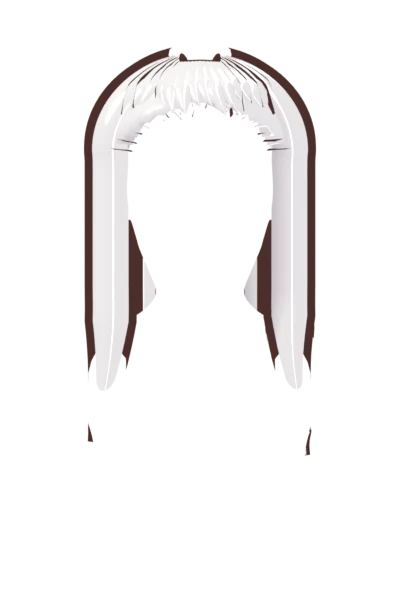
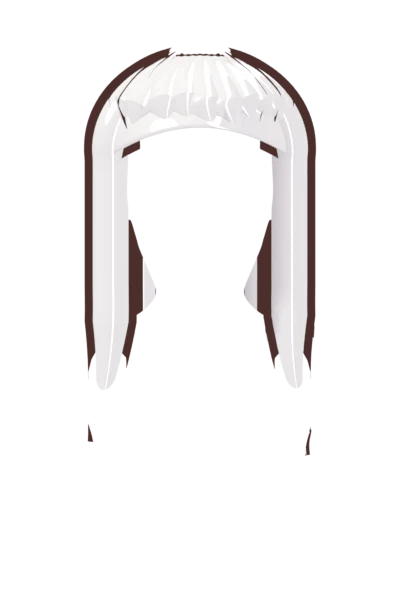
Customers: smooth hairlines and bob, higher hats, plain mouth area, thinner collars, simpler scarf (#18)
Hair caps, bob, beanie and cap are now one smooth sheet over the skull instead of cut-out spheres (no staircase edges).

Changed region(s): [[0.27, 0.09, 0.72, 0.27]]

diff --git a/sw.js b/sw.js
@@ -2,11 +2,11 @@
    too. The page itself is fetched from the network first (so a new version shows up at once) and from the cache when
    offline; everything else comes from the cache and is fetched only the first time. Bump VERSION with every release
    (together with the ?v= on the links in index.html): the old cache is then dropped. */
-const VERSION = 'cafe-cb-53';
+const VERSION = 'cafe-cb-54';
 const CORE = [
   './', 'index.html', 'manifest.webmanifest', 'style.css?v=41',
   'css/scene.css?v=41', 'css/fx.css?v=41', 'css/views.css?v=41', 'css/bar.css?v=52', 'css/theme.css?v=41', 'css/helper.css?v=41', 'css/stage.css?v=53', 'css/intro.css?v=41',
-  'js/intro.js?v=41', 'js/util.js?v=41', 'js/economy.js?v=41', 'js/i18n.js?v=42', 'js/audio.js?v=41', 'js/recipe.js?v=43', 'js/render.js?v=42', 'js/scene.js?v=41', 'js/fx.js?v=41',
+  'js/intro.js?v=41', 'js/util.js?v=41', 'js/economy.js?v=41', 'js/i18n.js?v=42', 'js/audio.js?v=41', 'js/recipe.js?v=43', 'js/render.js?v=43', 'js/scene.js?v=41', 'js/fx.js?v=41',
   'js/station.js?v=42', 'js/camera.js?v=42', 'js/helper.js?v=41', 'js/tutorial.js?v=41', 'js/main.js?v=41',
   'assets/favicon-64.png', 'assets/icon-192.png', 'assets/icon-512.png', 'assets/icon-512-any.png', 'assets/apple-touch-icon.png',
   'assets/cover/logo-menu.webp', 'assets/intro/cup.webp', 'assets/intro/text.webp',
@@ -20,7 +20,7 @@ const CORE = [
     'top-cinnamon', 'top-cocoa', 'top-whip', 'wand', 'warmer', 'icebucket', 'cocoatin', 'tipjar', 'stool'].map(n => `assets/models/${n}.webp`),
   // customers: two bodies (f, m), each with its own skin, shirt, collars, scarf, hair and hats (the beard is for m only)
   ...['f', 'm'].flatMap(g => ['skin', 'torso', 'collar-round', 'collar-v', 'scarf', 'hat-beanie', 'hat-pom', 'hat-cap', ...(g === 'm' ? ['beard'] : []),
-    ...['short', 'bun', 'long', 'curly', 'straight'].map(h => `hair-${h}-front`), ...['long', 'curly', 'straight'].map(h => `hair-${h}-back`)]
+    ...['short', 'bun', 'long', 'curly', 'straight'].map(h => `hair-${h}-front`), ...['long', 'curly'].map(h => `hair-${h}-back`)]
     .map(n => `assets/models/cust-${n}-${g}.webp`)),
 ];
 

diff --git a/js/render.js b/js/render.js
@@ -21,7 +21,7 @@ const HAIR_STYLES = ['short', 'bun', 'long', 'curly', 'beanie', 'straight'];   /
 const CUST_IMG = {};
 for (const g of ['f', 'm']) {
   ['skin', 'torso', 'collar-round', 'collar-v', 'scarf', 'hat-beanie', 'hat-pom', 'hat-cap', ...(g === 'm' ? ['beard'] : []),
-    ...['short', 'bun', 'long', 'curly', 'straight'].map(h => `hair-${h}-front`), ...['long', 'curly', 'straight'].map(h => `hair-${h}-back`)]
+    ...['short', 'bun', 'long', 'curly', 'straight'].map(h => `hair-${h}-front`), ...['long', 'curly'].map(h => `hair-${h}-back`)]
     .forEach(n => { const i = new Image(); i.src = `assets/models/cust-${n}-${g}.webp`; CUST_IMG[`${n}-${g}`] = i; });
 }
 function tintLayer(img, col, W, H) {

diff --git a/index.html b/index.html
@@ -382,7 +382,7 @@
 <script src="js/i18n.js?v=42"></script>
 <script src="js/audio.js?v=41"></script>
 <script src="js/recipe.js?v=43"></script>
-<script src="js/render.js?v=42"></script>
+<script src="js/render.js?v=43"></script>
 <script src="js/scene.js?v=41"></script>
 <script src="js/fx.js?v=41"></script>
 <script src="js/station.js?v=42"></script>

diff --git a/tools/blender/customers_b.py b/tools/blender/customers_b.py
@@ -224,35 +224,81 @@ def strand(phi0, e0, e1, sweep, r, m, g=1.0, fall=None, taper=0.3, outline=0.08,
     return tube('lock', smooth_curve(pts, 4), r, m, outline=outline, taper=taper)
 
 
-def hair_cap(m, front_eps=60, side_eps=96, back_eps=128, g=0.8):
+def hairline_eps(phi, front_eps, side_eps=96, back_eps=128):
+    c = math.cos(math.radians(phi))                                  # +1 front .. -1 back
+    return front_eps + (side_eps - front_eps) * (1 - c * c) if c > 0 else side_eps + (back_eps - side_eps) * c * c
+
+
+def smooth01(a, b, x):
+    t = max(0.0, min(1.0, (x - a) / (b - a)))
+    return t * t * (3 - 2 * t)
+
+
+def sheet(name, m, end_fn, g=0.8, flare=0.0, thick=0.4, N=96, R=16):
+    """a sheet of hair/cloth over the skull: from the crown down to end_fn(phi) (a height) all the way round; below the
+    ear line it falls straight down, flaring out by `flare` per unit. Built as a grid, so its lower edge is a smooth curve"""
+    k = skull()
+    ztop = k['cz'] + k['hz'] + g
+    zb = k['cz'] + (k['hz'] + g) * math.cos(math.radians(100))
+    bm = bmesh.new()
+    pole = bm.verts.new((0, k['cy'], ztop))
+    rows = []
+    for j in range(1, R + 1):
+        row = []
+        for i in range(N):
+            phi = 360.0 * i / N
+            z = ztop - (j / R) * (ztop - end_fn(phi))
+            if z >= zb:
+                e = math.degrees(math.acos(max(-1.0, min(1.0, (z - k['cz']) / (k['hz'] + g)))))
+                row.append(bm.verts.new(pt(phi, e, g)))
+            else:
+                bx, by, _ = pt(phi, 100, g)
+                f = 1 + flare * (zb - z)
+                row.append(bm.verts.new((bx * f, k['cy'] + (by - k['cy']) * f, z)))
+        rows.append(row)
+    for i in range(N):
+        bm.faces.new((pole, rows[0][i], rows[0][(i + 1) % N]))
+    for a_, b_ in zip(rows, rows[1:]):
+        for i in range(N):
+            bm.faces.new((a_[i], b_[i], b_[(i + 1) % N], a_[(i + 1) % N]))
+    bmesh.ops.recalc_face_normals(bm, faces=bm.faces)
+    c = Vector((0, k['cy'], k['cz']))
+    if sum((f.calc_center_median() - c).dot(f.normal) for f in bm.faces) < 0:     # normals must point outwards
+        for f in bm.faces:
+            f.normal_flip()
+    me = bpy.data.meshes.new(name); bm.to_mesh(me); bm.free()
+    o = link(bpy.data.objects.new(name, me)); M.finish(o, m, outline=0.1)
+    shell(o, thick)
+    return o
+
+
+def hair_cap(m, front_eps=60, g=0.8):
     """a skull cap of hair: closed over the crown, down to a hairline that is high at the front, lower at the sides and back"""
     k = skull()
-    o = sphere('cap', 1.0, m, loc=(0, k['cy'], k['cz']), scale=(k['rx'] + g, k['ry'] + g, k['hz'] + g), outline=0.1, segs=64)
-    bpy.context.view_layer.update()
+    return sheet('cap', m, lambda phi: k['cz'] + (k['hz'] + g) * math.cos(math.radians(hairline_eps(phi, front_eps))), g=g)
 
-    def lim_of(x, y):
-        px, py = x / (k['rx'] + g), (k['cy'] - y) / (k['ry'] + g)
-        c = py / max(1e-6, math.hypot(px, py))                      # +1 front .. -1 back
-        return front_eps + (side_eps - front_eps) * (1 - c * c) if c > 0 else side_eps + (back_eps - side_eps) * (c * c)
 
-    def test(x, y, z):
-        pz = (z - k['cz']) / (k['hz'] + g)
-        return math.degrees(math.acos(max(-1.0, min(1.0, pz)))) < lim_of(x, y)
-    keep(o, test, lambda x, y: k['cz'] + (k['hz'] + g) * math.cos(math.radians(lim_of(x, y))))
-    shell(o, 0.4)
-    return o
+def bob(m, g=1.0):
+    """a bob: the sheet falls from the crown to the neck at the sides and back, and stops at the hairline over the face"""
+    k = skull(); zend = H['neck_z'] + 2.5
+
+    def end(phi):
+        zh = k['cz'] + (k['hz'] + g) * math.cos(math.radians(hairline_eps(phi, 74)))
+        t = smooth01(40, 115, min(phi, 360 - phi))
+        return zh * (1 - t) + zend * t
+    return sheet('bob', m, end, g=g, flare=0.012, thick=0.5)
 
 
 def hair_front(style, m):
     k = skull()
-    cap = hair_cap(m, front_eps=58 if style != 'curly' else 50)
-    n = 15
-    # fringe: strands from a part near the crown down over the forehead, swept to one side
+    cap = hair_cap(m, front_eps={'curly': 68, 'long': 74, 'straight': 74}.get(style, 76))
+    n = 9
+    # fringe: chunky locks from a part near the crown down over the forehead, swept to one side
     for j in range(n):
         u = j / (n - 1)
-        phi = -66 + 132 * u
-        sw = 14 if style in ('short', 'bun') else 9
-        strand(phi, 12 + 6 * abs(u - 0.5), 60 + 5 * math.sin(j * 1.7), sw * (1 if u > 0.15 else -0.5), 1.7, m, g=1.0, taper=0.35)
+        phi = -62 + 124 * u
+        sw = 12 if style in ('short', 'bun') else 8
+        strand(phi, 14 + 5 * abs(u - 0.5), 70 + 3 * math.sin(j * 1.7), sw * (1 if u > 0.15 else -0.5), 2.7, m, g=0.9, taper=0.22, outline=0.08)
     if style == 'short':
         for sd in SIDES:   # short sideburns in front of the ears
             strand(sd * 82, 52, 98, 0, 1.5, m, g=0.9, taper=0.5)
@@ -261,8 +307,10 @@ def hair_front(style, m):
         # the pulled-back strands towards the bun
         for sd in SIDES:
             strand(sd * 70, 40, 14, sd * -50, 1.5, m, g=1.0, taper=0.4)
-    elif style in ('long', 'straight'):
-        end = H['sh_z'] - 8 if style == 'long' else H['neck_z'] + 1.5
+    elif style == 'straight':
+        bob(m)
+    elif style == 'long':
+        end = H['sh_z'] - 8
         for sd in SIDES:
             for q, phi in enumerate((74, 92, 112, 134)):
                 strand(sd * phi, 14 + 3 * q, 99, sd * 6, 2.5 - 0.2 * q, m, g=1.1, fall=end + 1.8 * math.sin((q + (sd > 0)) * 2.3), spread=0.011 if q < 2 else 0.006, taper=0.2, outline=0.1)
@@ -278,8 +326,8 @@ def hair_front(style, m):
 
 def hair_back(style, m):
     k = skull()
-    if style in ('long', 'straight'):
-        end = H['sh_z'] - 12 if style == 'long' else H['neck_z'] + 0.5
+    if style == 'long':
+        end = H['sh_z'] - 12
         bm = bmesh.new(); rows = []
         n = 11
         for zi in range(n):
@@ -309,35 +357,33 @@ def head_ell(name, m, grow=0.0, outline=0.1, segs=64):
     return sphere(name, 1.0, m, loc=(0, k['cy'], k['cz']), scale=(k['rx'] + grow, k['ry'] + grow, k['hz'] + grow), outline=outline, segs=segs)
 
 
+def rim_ring(z, g, r, m):
+    k = skull()
+    e = math.acos(max(-1.0, min(1.0, (z - k['cz']) / (k['hz'] + g))))
+    pts = [((k['rx'] + g) * math.sin(e) * math.cos(a), k['cy'] + (k['ry'] + g) * math.sin(e) * math.sin(a), z) for a in [i * 2 * math.pi / 48 for i in range(49)]]
+    return tube('cuff', pts, r, m, outline=0.06)
+
+
 def hat_beanie():
     m = toon('hat', WHITE)
-    o = head_ell('dome', m, grow=0.95)
-    z = H['eye_z'] + 3.3
-    keep(o, lambda x, y, zz: zz > z, lambda x, y: z)
-    shell(o, 0.4)
-    # a folded cuff: a band around the head at the rim
-    pts = []
-    for i in range(49):
-        a = i / 48 * 2 * math.pi
-        pts.append(((H['rx'] + 1.15) * math.cos(a), H['cy'] + (H['ry'] + 1.15) * math.sin(a), z))
-    t = tube('cuff', pts, 1.15, m, outline=0.1)
+    z = H['eye_z'] + 6.2
+    sheet('dome', m, lambda phi: z, g=1.2, thick=0.5)
+    rim_ring(z + 0.3, 1.5, 1.2, m)
     return True
 
 
 def hat_pom():
-    sphere('pom', 2.6, toon('pom', WHITE), loc=(0, H['cy'], H['top'] + 2.6), outline=0.12)
+    sphere('pom', 2.8, toon('pom', WHITE), loc=(0, skull()['cy'], skull()['cz'] + skull()['hz'] + 2.6), outline=0.1)
     return True
 
 
 def hat_cap():
     m = toon('cap', WHITE)
-    o = head_ell('crown', m, grow=0.8)
-    z = H['eye_z'] + 3.6
-    keep(o, lambda x, y, zz: zz > z, lambda x, y: z)
-    shell(o, 0.4)
-    b = sphere('brim', 1.0, m, loc=(-1.6, H['face_y'] - 2.6, z + 0.2), scale=(H['rx'] * 0.92, 4.2, 0.55), outline=0.1)
-    b.rotation_euler = (math.radians(-10), 0, math.radians(14))
-    sphere('button', 0.7, m, loc=(0, H['cy'], H['top'] + 0.7), outline=0.1)
+    k = skull(); z = H['eye_z'] + 6.6
+    sheet('crown', m, lambda phi: z, g=1.2, thick=0.5)
+    b = sphere('brim', 1.0, m, loc=(-0.8, k['cy'] - k['ry'] - 1.6, z - 0.3), scale=(k['rx'] * 0.78, 5.0, 0.8), outline=0.06)
+    b.rotation_euler = (math.radians(-8), 0, math.radians(12))
+    sphere('button', 0.8, m, loc=(0, k['cy'], k['cz'] + k['hz'] + 1.9), outline=0.06)
     return True
 
 
@@ -365,7 +411,7 @@ def scarf():
     # a thick wrap round the neck, a knot at the front and a tail hanging down the chest
     lathe('wrap', M.soft([(3.4, nz + 4.6), (6.4, nz + 5.0), (7.6, nz + 2.8), (7.0, nz - 0.6), (3.6, nz + 0.2)]), m, segs=48).location = (0, H['cy'] * 0.25 + 1.2, 0)
     sphere('knot', 2.5, m, loc=(2.6, surf(2.6, nz + 1.0)[1] - 0.6, nz + 0.6), outline=0.1, segs=20)
-    M.box('tail', (3.4, 1.2, 11.0), m, loc=(2.6, surf(2.6, nz - 6, 0.7)[1], nz - 1.5 - 5.5), bevel=0.55, rot=(math.radians(8), math.radians(-5), 0))
+    tube('tail', [surf(2.6, nz - 1.0, 1.0), surf(2.8, nz - 6.0, 1.0), surf(3.0, nz - 11.0, 0.9)], 1.7, m, outline=0.06)
     return True
 
 
@@ -374,9 +420,9 @@ def collar(kind):
     nz = H['neck_z']
     xs = [i * 0.5 for i in range(-12, 13)]
     if kind == 'round':       # a ribbed crew neck following the neckline
-        tube('rib', [surf(x, neckline(x) + 0.2, 0.55) for x in xs], 0.85, m, outline=0.1)
+        tube('rib', [surf(x, neckline(x) + 0.2, 0.55) for x in xs], 0.7, m, outline=0.04)
     else:                     # a shirt collar: a neck ring, two flaps and the open V
-        tube('rib', [surf(x, neckline(x) + 0.9, 0.5) for x in xs if abs(x) < 5.6], 0.7, m, outline=0.08)
+        tube('rib', [surf(x, neckline(x) + 0.9, 0.5) for x in xs if abs(x) < 5.6], 0.6, m, outline=0.04)
         for sd in SIDES:
             pts = [surf(sd * 3.4, nz + 0.2, 0.7), surf(sd * 4.6, nz - 2.6, 0.9), surf(sd * 2.0, nz - 8.5, 0.9)]
             me = bpy.data.meshes.new('fl'); bm = bmesh.new()
@@ -446,7 +492,7 @@ def run():
                 pass
             m = hair_mat()
             snap('cust-hair-%s-front-%s' % (st, g), mats, 'hold', lambda st=st, m=m: hair_front(st, m))
-            if st in ('long', 'curly', 'straight'):
+            if st in ('long', 'curly'):
                 snap('cust-hair-%s-back-%s' % (st, g), mats, 'hold', lambda st=st, m=m: hair_back(st, m))
         if want('hat-beanie'): snap('cust-hat-beanie-%s' % g, mats, 'hold', hat_beanie)
         if want('hat-pom'): snap('cust-hat-pom-%s' % g, mats, None, hat_pom)

diff --git a/tools/blender/helper_style.py b/tools/blender/helper_style.py
@@ -220,6 +220,16 @@ def body_B():
             new_ = {i: sum((P[j] for j in nbr[i]), Vector()) / len(nbr[i]) for i in reg}
             for i, w in reg.items():
                 P[i] = P[i].lerp(new_[i], w)
+    if CUSTOMER:   # take the lips' relief off the mouth area, so the game's mouth line is not drawn on pursed lips
+        ym = {}
+        for i in body_ids:
+            d_ = math.hypot(P[i].x / 5.4, (P[i].z - mz_) / 4.2)
+            if d_ < 1.0 and P[i].y < nose_.y + 9:
+                ym[i] = 0.7 * (1 - d_ * d_)
+        for _ in range(80):
+            new_ = {i: sum((P[j].y for j in nbr[i]), 0.0) / len(nbr[i]) for i in ym}
+            for i, w in ym.items():
+                P[i] = Vector((P[i].x, P[i].y + (new_[i] - P[i].y) * w, P[i].z))
     me = bpy.data.meshes.new('mh'); bm = bmesh.new()
     idx = {}
     for i in sorted(body_ids):
